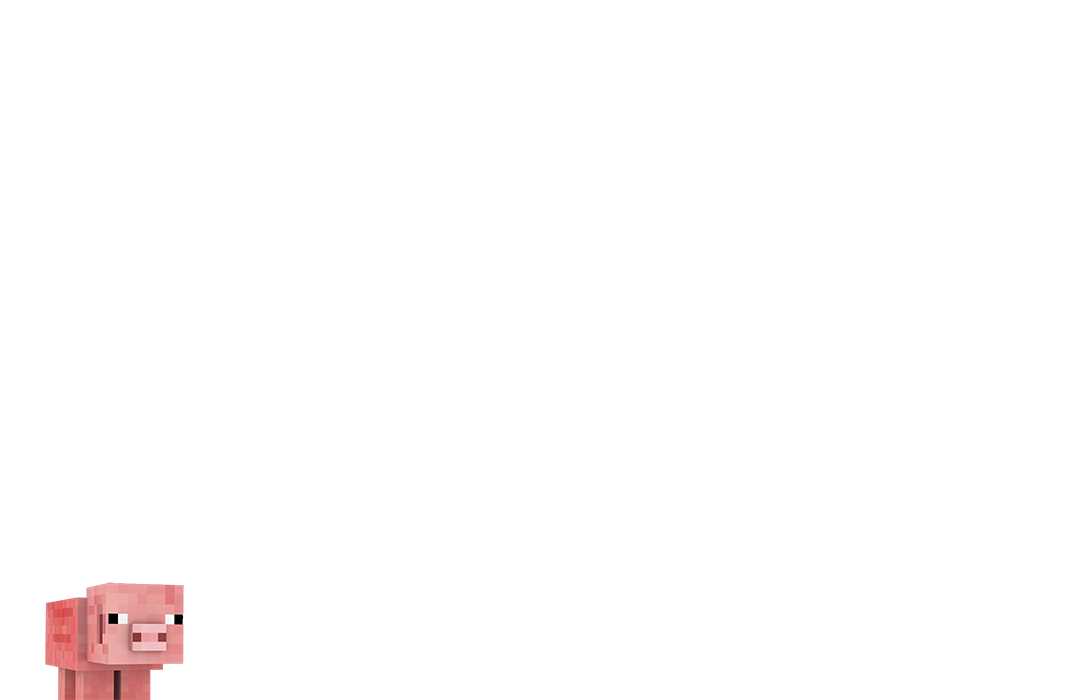
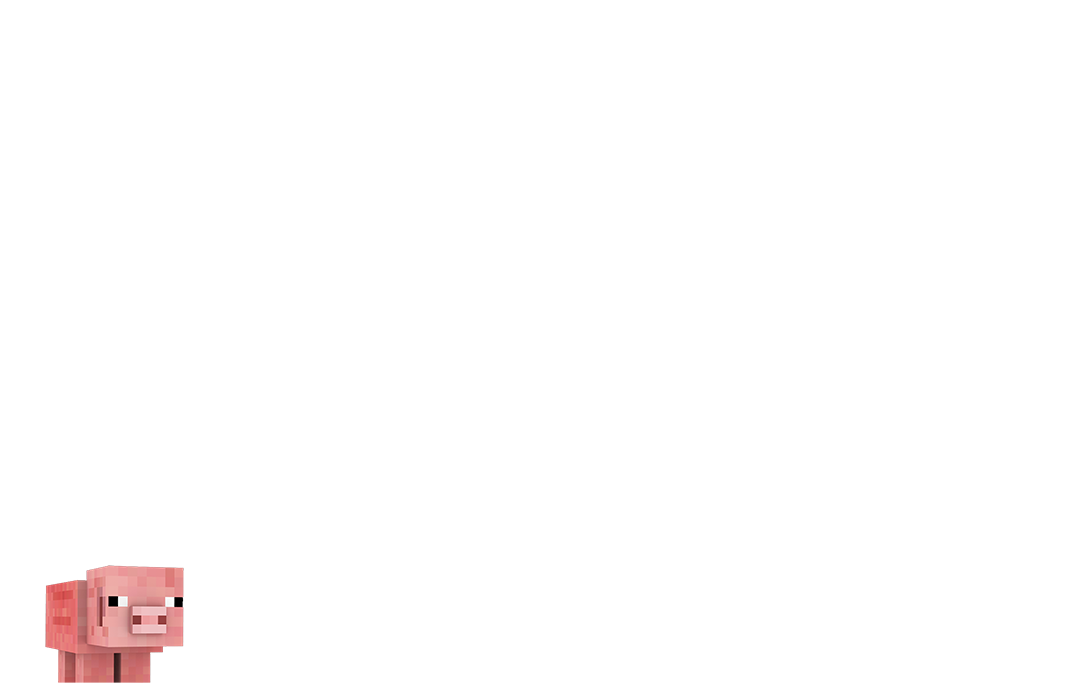
4030

Changed region(s): [[0.0309, 0.81, 0.1856, 1.0]]

diff --git a/catalog/4030/4030.html b/catalog/4030/4030.html
@@ -14,121 +14,121 @@
     height: 100vh">
 
     <div class="scene" id="scene" data-hover-only="true">
-     <div data-depth="0">
+     <div data-depth="0.5">
       <img src="img/4030_64.png"/>
      </div>
-     <div data-depth="0">
+     <div data-depth="0.3">
       <img src="img/4030_63.png"/>
      </div>
-     <div data-depth="0">
+     <div data-depth="0.3">
       <img src="img/4030_62.png"/>
      </div>
-     <div data-depth="0">
+     <div data-depth="0.3">
       <img src="img/4030_61.png"/>
      </div>
-     <div data-depth="0">
+     <div data-depth="0.3">
       <img src="img/4030_60.png"/>
      </div>
-     <div data-depth="0">
+     <div data-depth="0.3">
       <img src="img/4030_59.png"/>
      </div>
-     <div data-depth="0">
+     <div data-depth="0.3">
       <img src="img/4030_58.png"/>
      </div>
-     <div data-depth="0">
+     <div data-depth="0.2">
       <img src="img/4030_57.png"/>
      </div>
-     <div data-depth="0.05">
+     <div data-depth="0.2">
       <img src="img/4030_56.png"/>
      </div>
-     <div data-depth="0">
+     <div data-depth="0.2">
       <img src="img/4030_55.png"/>
      </div>
-     <div data-depth="0.02">
+     <div data-depth="0.15">
       <img src="img/4030_54.png"/>
      </div>
-     <div data-depth="0">
+     <div data-depth="0.2">
       <img src="img/4030_53.png"/>
      </div>
-     <div data-depth="0.02">
+     <div data-depth="0.15">
       <img src="img/4030_52.png"/>
      </div>
-     <div data-depth="0">
+     <div data-depth="0.15">
       <img src="img/4030_51.png"/>
      </div>
-     <div data-depth="0.03">
+     <div data-depth="0.15">
       <img src="img/4030_50.png"/>
      </div>
-     <div data-depth="0">
+     <div data-depth="0.15">
       <img src="img/4030_49.png"/>
      </div>
-     <div data-depth="0">
+     <div data-depth="0.1">
       <img src="img/4030_48.png"/>
      </div>
-     <div data-depth="0">
+     <div data-depth="0.12">
       <img src="img/4030_47.png"/>
      </div>
      <div data-depth="0.1">
       <img src="img/4030_46.png"/>
      </div>
-     <div data-depth="0.01">
+     <div data-depth="0.1">
       <img src="img/4030_45.png"/>
      </div>
-     <div data-depth="0.01">
+     <div data-depth="0.1">
       <img src="img/4030_44.png"/>
      </div>
-     <div data-depth="0">
+     <div data-depth="0.11">
       <img src="img/4030_43.png"/>
      </div>
-     <div data-depth="0">
+     <div data-depth="0.1">
       <img src="img/4030_42.png"/>
      </div>
-     <div data-depth="0">
+     <div data-depth="0.1">
       <img src="img/4030_41.png"/>
      </div>
-     <div data-depth="0">
+     <div data-depth="0.12">
       <img src="img/4030_40.png"/>
      </div>
-     <div data-depth="0">
+     <div data-depth="0.12">
       <img src="img/4030_39.png"/>
      </div>
-     <div data-depth="0">
+     <div data-depth="0.12">
       <img src="img/4030_38.png"/>
      </div>
-     <div data-depth="0">
+     <div data-depth="0.15">
       <img src="img/4030_37.png"/>
      </div>
-     <div data-depth="0.09">
+     <div data-depth="0.15">
       <img src="img/4030_36.png"/>
      </div>
-     <div data-depth="0">
+     <div data-depth="0.1">
       <img src="img/4030_35.png"/>
      </div>
-     <div data-depth="0">
+     <div data-depth="0.1">
       <img src="img/4030_34.png"/>
      </div>
-     <div data-depth="0">
+     <div data-depth="0.13">
       <img src="img/4030_33.png"/>
      </div>
-     <div data-depth="0">
+     <div data-depth="0.08">
       <img src="img/4030_32_childrenLayer.png"/>
      </div>
-     <div data-depth="0">
+     <div data-depth="0.08">
       <img src="img/4030_31.png"/>
      </div>
-     <div data-depth="0">
+     <div data-depth="0.15">
       <img src="img/4030_30.png"/>
      </div>
-     <div data-depth="0">
+     <div data-depth="0.12">
       <img src="img/4030_29.png"/>
      </div>
-     <div data-depth="0">
+     <div data-depth="0.12">
       <img src="img/4030_28.png"/>
      </div>
-     <div data-depth="0.2">
+     <div data-depth="0.1">
       <img src="img/4030_25.png"/>
      </div>
-     <div data-depth="0">
+     <div data-depth="0.12">
       <img src="img/4030_27.png"/>
      </div>
      <div data-depth="0.07">
@@ -137,22 +137,22 @@
      <div data-depth="0.05">
       <img src="img/4030_24.png"/>
      </div>
-     <div data-depth="0.05">
+     <div data-depth="0.08">
       <img src="img/4030_23.png"/>
      </div>
      <div data-depth="0.05">
       <img src="img/4030_22.png"/>
      </div>
-     <div data-depth="0">
+     <div data-depth="0.08">
       <img src="img/4030_21.png"/>
      </div>
      <div data-depth="0.08">
       <img src="img/4030_20.png"/>
      </div>
-     <div data-depth="0.2">
+     <div data-depth="0.08">
       <img src="img/4030_19.png"/>
      </div>
-     <div data-depth="0">
+     <div data-depth="0.08">
       <img src="img/4030_18.png"/>
      </div>
      <div data-depth="0.05">
@@ -206,17 +206,17 @@
      <div data-depth="0.05">
       <img src="img/4030_1.png"/>
      </div>
-      <div style="position: absolute;
+     <div style="position: absolute;
       z-index: 100000;
       border-style: solid;
-      border-width: 10px;
+      border-width: 200px;
       transform: translate3d(0px, 0px, 0px);
       transform-style: preserve-3d;
       backface-visibility: hidden;
-      display: block;left: 0px;top: 0px;height: 99%;width: 100%;
-      margin-top: -10px;
-      margin-left: -10px;
-      border-color: #66ccff #66cc33 #66cc33;">
+      display: block;left: 0px;top: 0px;height: 90%;width: 92%;
+      margin-top: -170px;
+      margin-left: -170px;
+      border-color: #ffffff;">
 
     </div>
   </div>

diff --git a/catalog/2104/2104.html b/catalog/2104/2104.html
@@ -32,7 +32,7 @@
    <div data-depth="0.6">
     <img src="img/2104_48.png"/>
    </div>
-   <div data-depth="0.65">
+   <div data-depth="0.65" style="margin-top: -20px">
     <img src="img/2104_47.png"/>
    </div>
    <div data-depth="0.65">
@@ -95,6 +95,7 @@
    <div data-depth="0.275">
     <img src="img/2104_27.png"/>
    </div>
+
    <div data-depth="0.2">
     <img src="img/2104_26_childrenLayer.png"/>
    </div>
